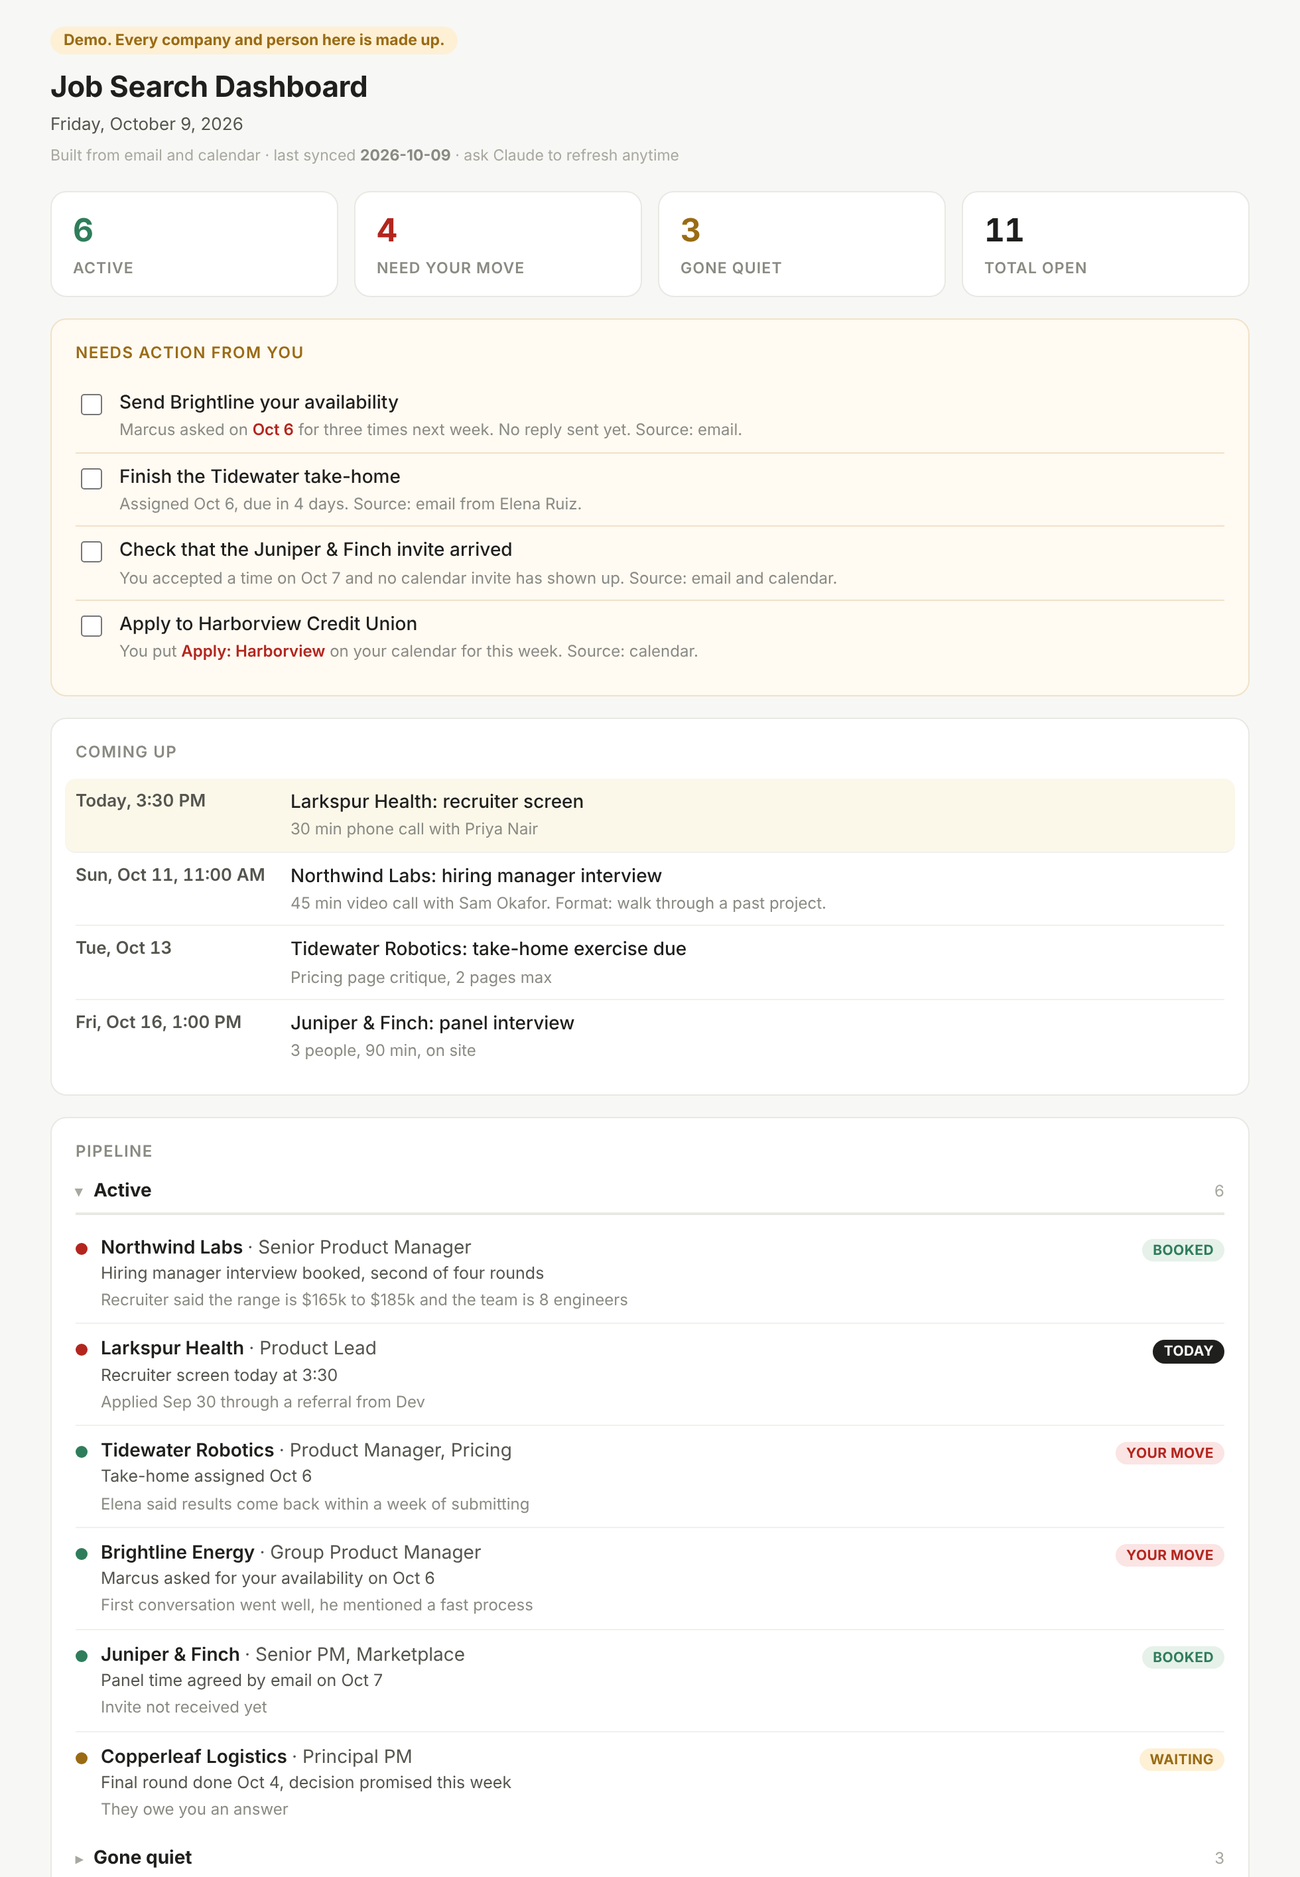
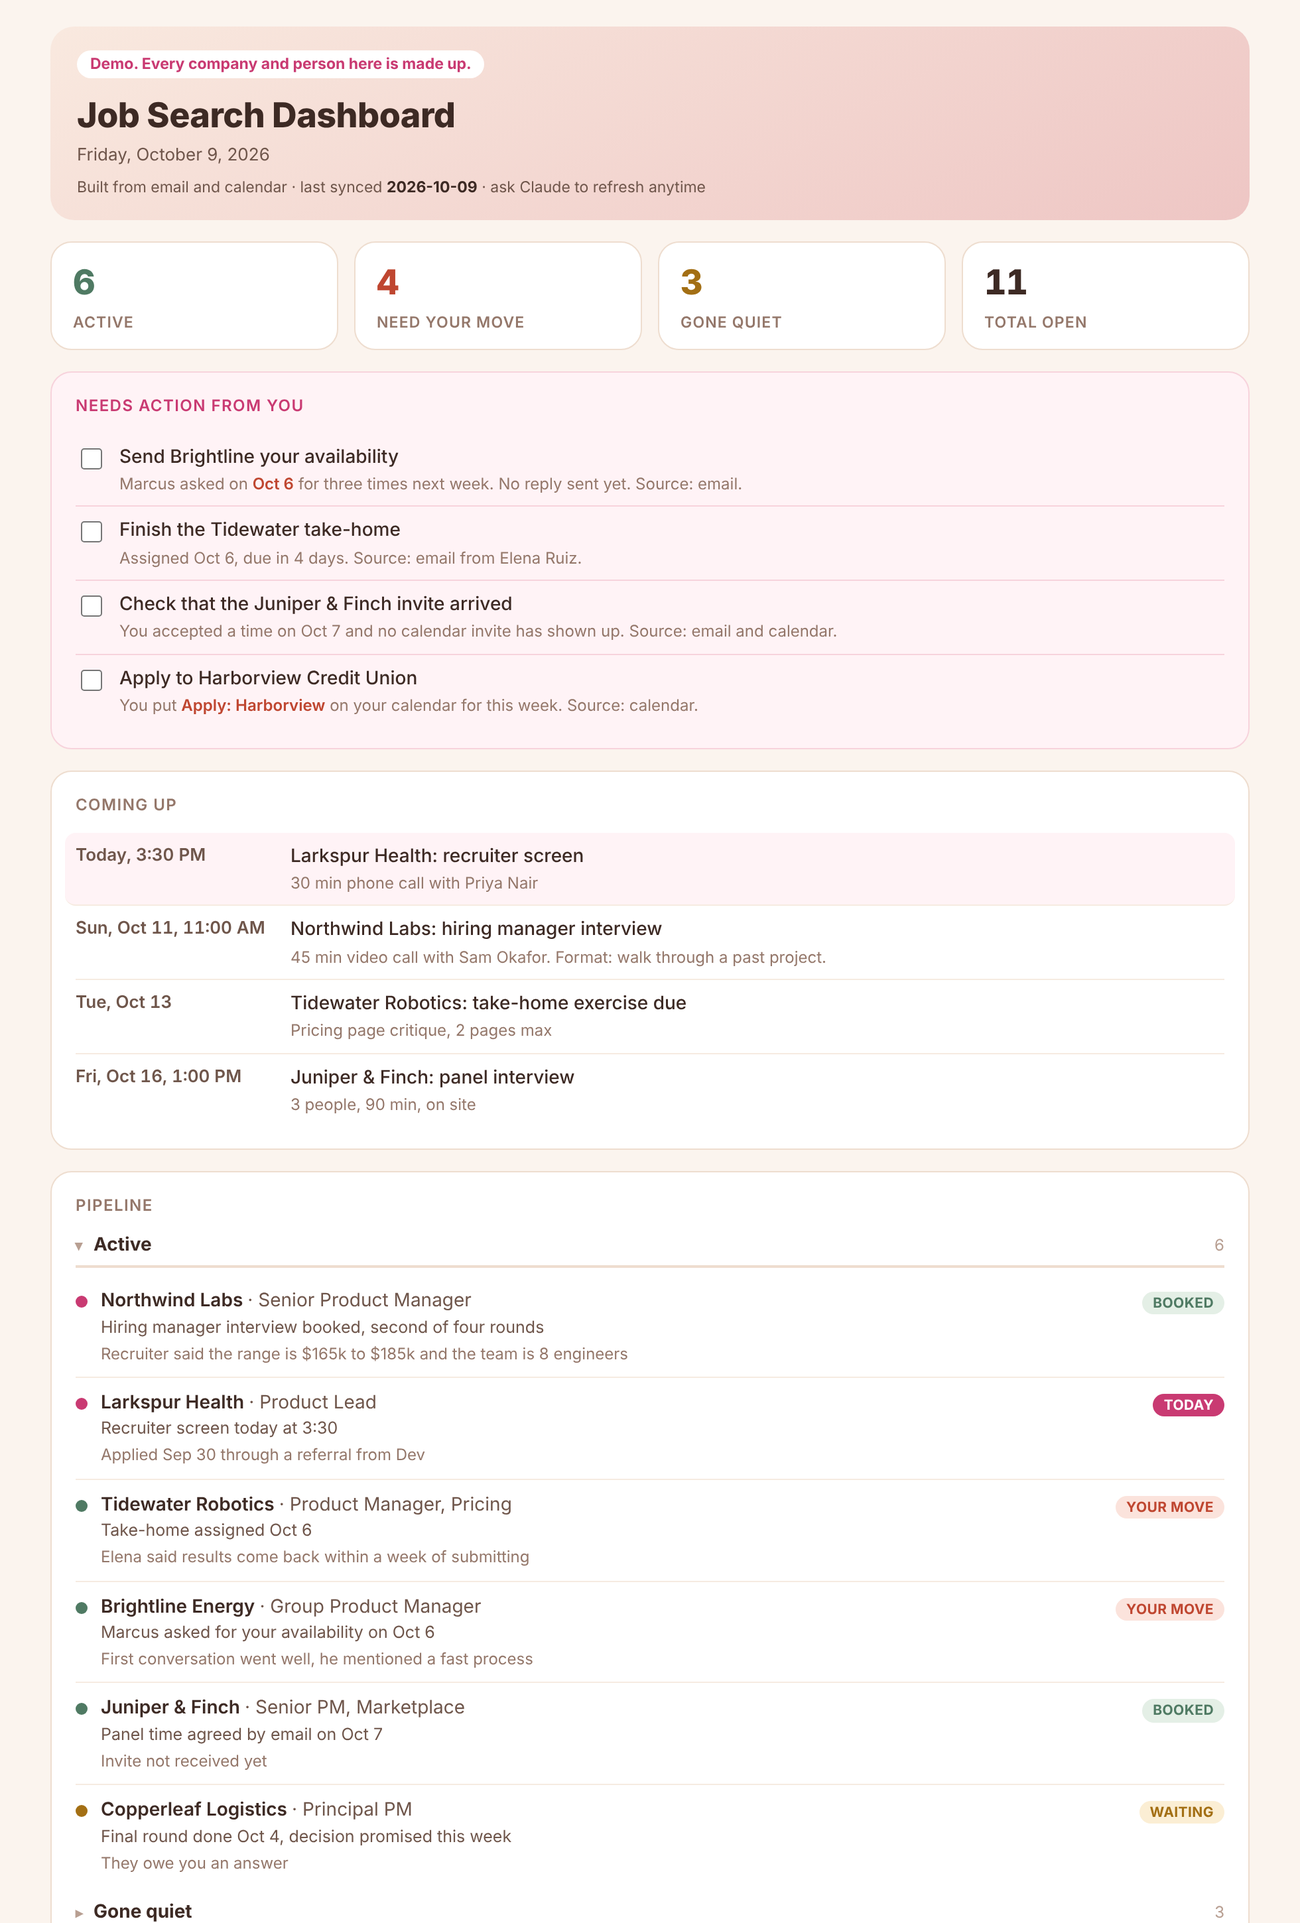
Pipeline tracker: warmer blush and pink palette
Claude-Session: https://claude.ai/code/session_01Y2dVms4Mgi3p5Muqq1DkJF

diff --git a/pipeline-tracker/assets/dashboard-template.html b/pipeline-tracker/assets/dashboard-template.html
@@ -7,65 +7,69 @@
 <style>
   /* One column, summary first: counts, then what is waiting on you, then dates, then the full board. */
   :root {
-    --bg:#f7f7f5; --card:#ffffff; --line:#e8e8e4; --line-soft:#f1f1ec;
-    --ink:#1f1f1d; --ink-2:#55554f; --muted:#8a8a83; --faint:#a8a8a0;
-    --green:#2f7d5b; --green-bg:#e6f1ea;
-    --amber:#9a6b14; --amber-bg:#fdf0d5; --amber-card:#fffaf2; --amber-line:#f0e2c8;
-    --red:#b3261e; --red-bg:#fbe4e4;
-    --today-bg:#fbf8ea;
+    --bg:#fbf4ee; --card:#ffffff; --line:#eeddcf; --line-soft:#f6ebe1;
+    --ink:#3d2a24; --ink-2:#6f564b; --muted:#94776a; --faint:#b89f92;
+    --pink:#c93a72; --pink-bg:#fde6ee; --pink-card:#fff3f6; --pink-line:#f7d3dc;
+    --hero-a:#f9e9df; --hero-b:#eec6c4;
+    --green:#4f7a63; --green-bg:#e4efe6;
+    --amber:#a36f14; --amber-bg:#fbeed4;
+    --red:#bf4630; --red-bg:#fbe3dc;
   }
   @media (prefers-color-scheme: dark) {
     :root:not([data-theme="light"]) {
       color-scheme: dark;
-      --bg:#181816; --card:#22221f; --line:#35352f; --line-soft:#2b2b27;
-      --ink:#ecece6; --ink-2:#bdbdb4; --muted:#96968d; --faint:#7d7d75;
-      --green:#74c9a0; --green-bg:#1e3329;
-      --amber:#e2ad55; --amber-bg:#3d2f12; --amber-card:#2a2418; --amber-line:#4a3d22;
-      --red:#ff8f85; --red-bg:#41211f;
-      --today-bg:#2c2a1d;
+      --bg:#221814; --card:#2e211c; --line:#4a352c; --line-soft:#3a2a23;
+      --ink:#f5e8dd; --ink-2:#d6bdae; --muted:#b39a8c; --faint:#8c7468;
+      --pink:#ff8bae; --pink-bg:#4a2533; --pink-card:#38222a; --pink-line:#5a3340;
+      --hero-a:#3d2b24; --hero-b:#5c3a3f;
+      --green:#9dc4a8; --green-bg:#28382c;
+      --amber:#e8bd6b; --amber-bg:#43331a;
+      --red:#ff9f8c; --red-bg:#4a281f;
     }
   }
   :root[data-theme="dark"] {
     color-scheme: dark;
-    --bg:#181816; --card:#22221f; --line:#35352f; --line-soft:#2b2b27;
-    --ink:#ecece6; --ink-2:#bdbdb4; --muted:#96968d; --faint:#7d7d75;
-    --green:#74c9a0; --green-bg:#1e3329;
-    --amber:#e2ad55; --amber-bg:#3d2f12; --amber-card:#2a2418; --amber-line:#4a3d22;
-    --red:#ff8f85; --red-bg:#41211f;
-    --today-bg:#2c2a1d;
+    --bg:#221814; --card:#2e211c; --line:#4a352c; --line-soft:#3a2a23;
+    --ink:#f5e8dd; --ink-2:#d6bdae; --muted:#b39a8c; --faint:#8c7468;
+    --pink:#ff8bae; --pink-bg:#4a2533; --pink-card:#38222a; --pink-line:#5a3340;
+    --hero-a:#3d2b24; --hero-b:#5c3a3f;
+    --green:#9dc4a8; --green-bg:#28382c;
+    --amber:#e8bd6b; --amber-bg:#43331a;
+    --red:#ff9f8c; --red-bg:#4a281f;
   }
   * { box-sizing: border-box; }
   body { margin:0; font-family:-apple-system,BlinkMacSystemFont,"Segoe UI",Roboto,Helvetica,Arial,sans-serif;
          background:var(--bg); color:var(--ink); font-size:14px; line-height:1.45; }
   .wrap { max-width:940px; margin:0 auto; padding-block:20px 60px; padding-inline:18px; }
-  h1 { font-size:22px; margin:0 0 2px; letter-spacing:-0.01em; text-wrap:balance; }
+  .hero { background:linear-gradient(150deg, var(--hero-a), var(--hero-b)); border-radius:18px; padding:18px 20px 16px; margin-bottom:16px; }
+  h1 { font-family:ui-rounded,"SF Pro Rounded","Nunito","Segoe UI",system-ui,sans-serif; font-size:26px; font-weight:800; margin:0 0 2px; letter-spacing:-0.01em; text-wrap:balance; }
   .sub { color:var(--ink-2); font-size:13px; margin-bottom:6px; }
-  .srcnote { color:var(--faint); font-size:11.5px; margin-bottom:18px; }
-  .srcnote b { color:var(--muted); }
+  .srcnote { color:var(--ink-2); font-size:11.5px; }
+  .srcnote b { color:var(--ink); }
   .old { color:var(--red); font-weight:600; }
-  .demo { display:inline-block; background:var(--amber-bg); color:var(--amber); font-size:11.5px; font-weight:700;
+  .demo { display:inline-block; background:var(--card); color:var(--pink); font-size:11.5px; font-weight:700;
           padding:2px 10px; border-radius:999px; margin-bottom:10px; }
   .statrow { display:flex; gap:12px; margin-bottom:16px; flex-wrap:wrap; }
-  .stat { flex:1; min-width:120px; background:var(--card); border:1px solid var(--line); border-radius:12px; padding:12px 16px; }
-  .stat .n { font-size:24px; font-weight:700; letter-spacing:-0.02em; font-variant-numeric:tabular-nums; }
+  .stat { flex:1; min-width:120px; background:var(--card); border:1px solid var(--line); border-radius:16px; padding:12px 16px; }
+  .stat .n { font-family:ui-rounded,"SF Pro Rounded","Nunito","Segoe UI",system-ui,sans-serif; font-size:26px; font-weight:800; letter-spacing:-0.02em; font-variant-numeric:tabular-nums; }
   .stat .l { font-size:11.5px; color:var(--muted); text-transform:uppercase; letter-spacing:0.05em; font-weight:600; margin-top:2px; }
   .stat.green .n { color:var(--green); } .stat.amber .n { color:var(--amber); } .stat.red .n { color:var(--red); }
-  .card { background:var(--card); border:1px solid var(--line); border-radius:12px; padding:16px 18px; margin-bottom:16px; }
+  .card { background:var(--card); border:1px solid var(--line); border-radius:16px; padding:16px 18px; margin-bottom:16px; }
   .card h2 { font-size:12px; text-transform:uppercase; letter-spacing:0.06em; color:var(--muted); margin:0 0 12px; font-weight:600; }
-  .prio-card { background:var(--amber-card); border-color:var(--amber-line); }
-  .prio-card h2 { color:var(--amber); }
+  .prio-card { background:var(--pink-card); border-color:var(--pink-line); }
+  .prio-card h2 { color:var(--pink); }
   .prio-row { display:flex; align-items:flex-start; gap:10px; padding:8px 0; }
-  .prio-row:not(:last-child) { border-bottom:1px solid var(--amber-line); }
+  .prio-row:not(:last-child) { border-bottom:1px solid var(--pink-line); }
   .prio-row.done .t { text-decoration:line-through; color:var(--faint); }
-  .prio-row input { margin-top:3px; width:16px; height:16px; flex:0 0 auto; cursor:pointer; accent-color:var(--amber); }
-  .prio-row input:focus-visible { outline:2px solid var(--amber); outline-offset:2px; }
+  .prio-row input { margin-top:3px; width:16px; height:16px; flex:0 0 auto; cursor:pointer; accent-color:var(--pink); }
+  .prio-row input:focus-visible { outline:2px solid var(--pink); outline-offset:2px; }
   .prio-row .t { font-weight:500; }
   .prio-row .m { color:var(--muted); font-size:12px; margin-top:1px; }
   .prio-row .m b { color:var(--red); font-weight:600; }
   .co-row { display:flex; align-items:flex-start; gap:10px; padding:9px 0; border-bottom:1px solid var(--line-soft); }
   .co-row:last-child { border-bottom:none; }
   .dot { width:9px; height:9px; border-radius:50%; flex:0 0 auto; margin-top:6px; }
-  .dot.hot { background:var(--red); } .dot.active { background:var(--green); }
+  .dot.hot { background:var(--pink); } .dot.active { background:var(--green); }
   .dot.waiting { background:var(--amber); } .dot.stale { background:var(--faint); }
   .co-body { flex:1; min-width:0; }
   .co-name { font-weight:600; }
@@ -77,13 +81,13 @@
   .c-act  { background:var(--red-bg); color:var(--red); }
   .c-wait { background:var(--amber-bg); color:var(--amber); }
   .c-stale{ background:var(--line-soft); color:var(--muted); }
-  .c-soon { background:var(--ink); color:var(--bg); }
+  .c-soon { background:var(--pink); color:var(--card); }
   .ev { display:flex; gap:12px; padding:8px 0; border-bottom:1px solid var(--line-soft); flex-wrap:wrap; }
   .ev:last-child { border-bottom:none; }
   .ev > div:last-child { flex:1; min-width:180px; }
   .ev-time { flex:0 0 150px; font-weight:600; color:var(--ink-2); font-variant-numeric:tabular-nums; font-size:13px; }
   .ev-title { font-weight:500; }
-  .ev.hit { background:var(--today-bg); margin:0 -8px; padding:8px; border-radius:8px; }
+  .ev.hit { background:var(--pink-card); margin:0 -8px; padding:8px; border-radius:8px; }
   .empty { color:var(--muted); font-style:italic; }
   details.section { margin-bottom:10px; }
   details.section summary { cursor:pointer; font-weight:700; font-size:14px; padding-bottom:5px;
@@ -91,16 +95,18 @@
   details.section summary::-webkit-details-marker { display:none; }
   details.section summary::before { content:"▸"; font-size:11px; color:var(--faint); transition:transform .15s; }
   details[open].section summary::before { transform:rotate(90deg); }
-  details.section summary:focus-visible { outline:2px solid var(--amber); outline-offset:2px; }
+  details.section summary:focus-visible { outline:2px solid var(--pink); outline-offset:2px; }
   details.section summary .cnt { font-size:12px; color:var(--faint); font-weight:400; margin-left:auto; }
   @media (prefers-reduced-motion: reduce) { * { transition:none !important; } }
 </style>
 </head>
 <body>
 <div class="wrap">
-  <h1 id="title">Job Search Dashboard</h1>
-  <div class="sub" id="todayLabel"></div>
-  <div class="srcnote" id="srcnote"></div>
+  <div class="hero">
+    <h1 id="title">Job Search Dashboard</h1>
+    <div class="sub" id="todayLabel"></div>
+    <div class="srcnote" id="srcnote"></div>
+  </div>
 
   <div class="statrow" id="stats"></div>
 
